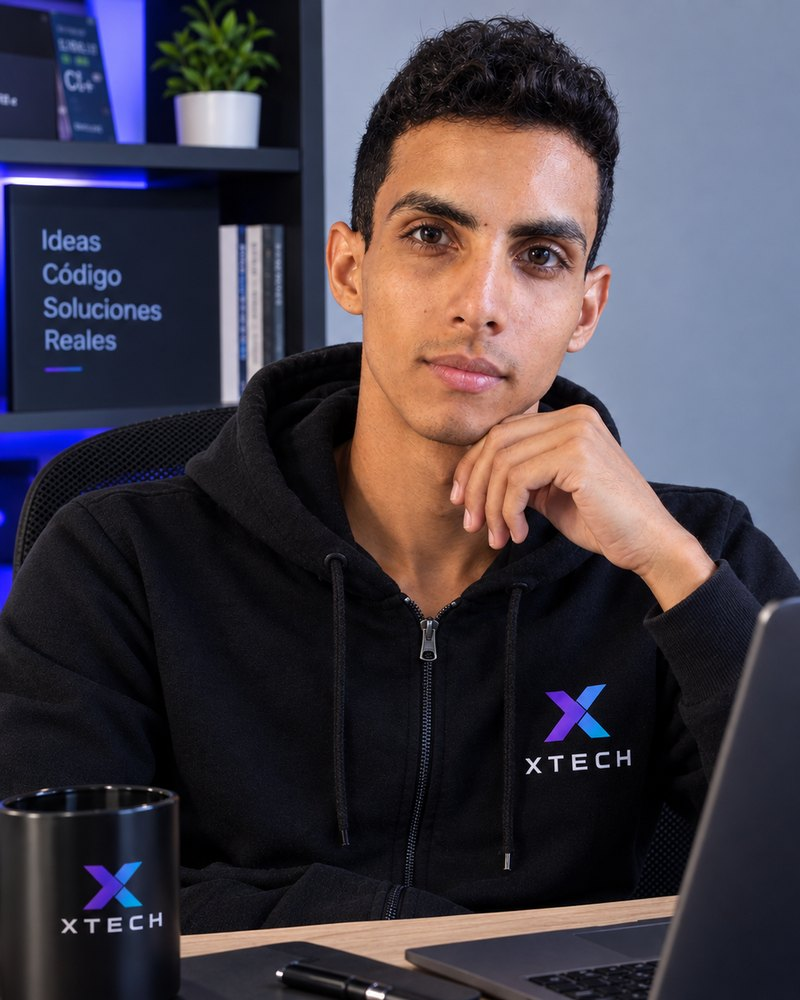
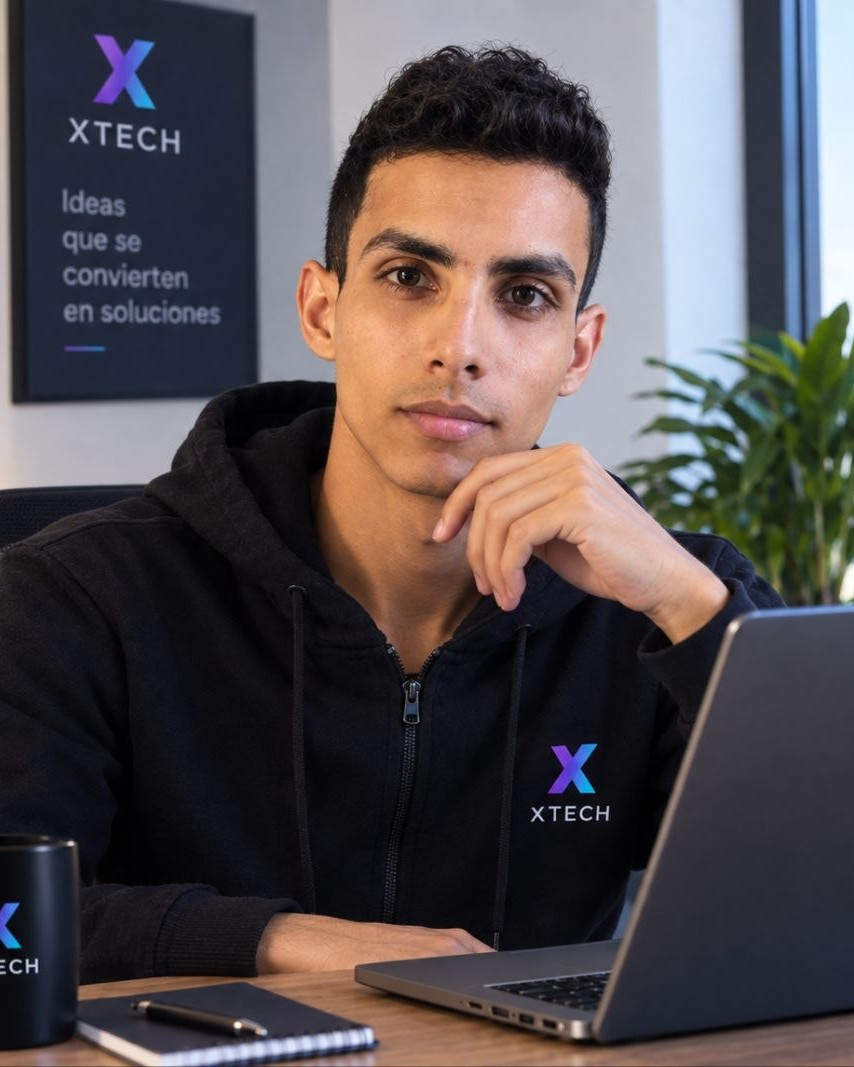
Fotos nuevas del equipo en Quiénes somos

diff --git a/dastan-x-tech/app/globals.css b/dastan-x-tech/app/globals.css
@@ -317,7 +317,7 @@ html { scroll-padding-top: 84px; }
 /* Quiénes somos: fichas del equipo (foto 4:5, nombre y rol) con los colores de siempre; una columna en móvil */
 .equipo { display: grid; gap: 1.5rem; margin-top: 2rem; grid-template-columns: repeat(auto-fit, minmax(min(260px, 100%), 1fr)); }
 .equipo-ficha { margin: 0; display: flex; flex-direction: column; gap: 0.85rem; }
-.equipo-foto { display: block; width: 100%; height: auto; border-radius: var(--radius-card); border: 1px solid var(--border); }
+.equipo-foto { display: block; width: 100%; height: auto; aspect-ratio: 4 / 5; object-fit: cover; border-radius: var(--radius-card); border: 1px solid var(--border); }
 .equipo-ficha figcaption { display: flex; flex-direction: column; gap: 2px; }
 .equipo-ficha strong { color: var(--text); font-size: 17px; font-weight: 600; }
 .equipo-ficha span { color: var(--text-2); font-size: 15px; }

diff --git a/dastan-x-tech/app/page.js b/dastan-x-tech/app/page.js
@@ -7,7 +7,7 @@ import SiteFooter from '@/components/SiteFooter';
 import fotoDastan from '@/public/equipo/dastan-tamayo.jpg';
 import fotoIsdiel from '@/public/equipo/isdiel-martinez.jpg';
 
-// Equipo de «Quiénes somos»: fotos ya recortadas a 4:5 (800×1000) en public/equipo
+// Equipo de «Quiénes somos»: fotos ya recortadas a 4:5 (Dastan 854×1067, Isdiel 1024×1280) en public/equipo; el CSS fija el 4:5
 const equipo = [
   { foto: fotoDastan, nombre: 'Dastan Tamayo', rol: 'Fundador de DASTAN X-TECH', alt: 'Dastan Tamayo, fundador de DASTAN X-TECH' },
   { foto: fotoIsdiel, nombre: 'Isdiel Martínez', rol: 'Consultor de IA y estratega digital', alt: 'Isdiel Martínez, consultor de IA y estratega digital de DASTAN X-TECH' },
